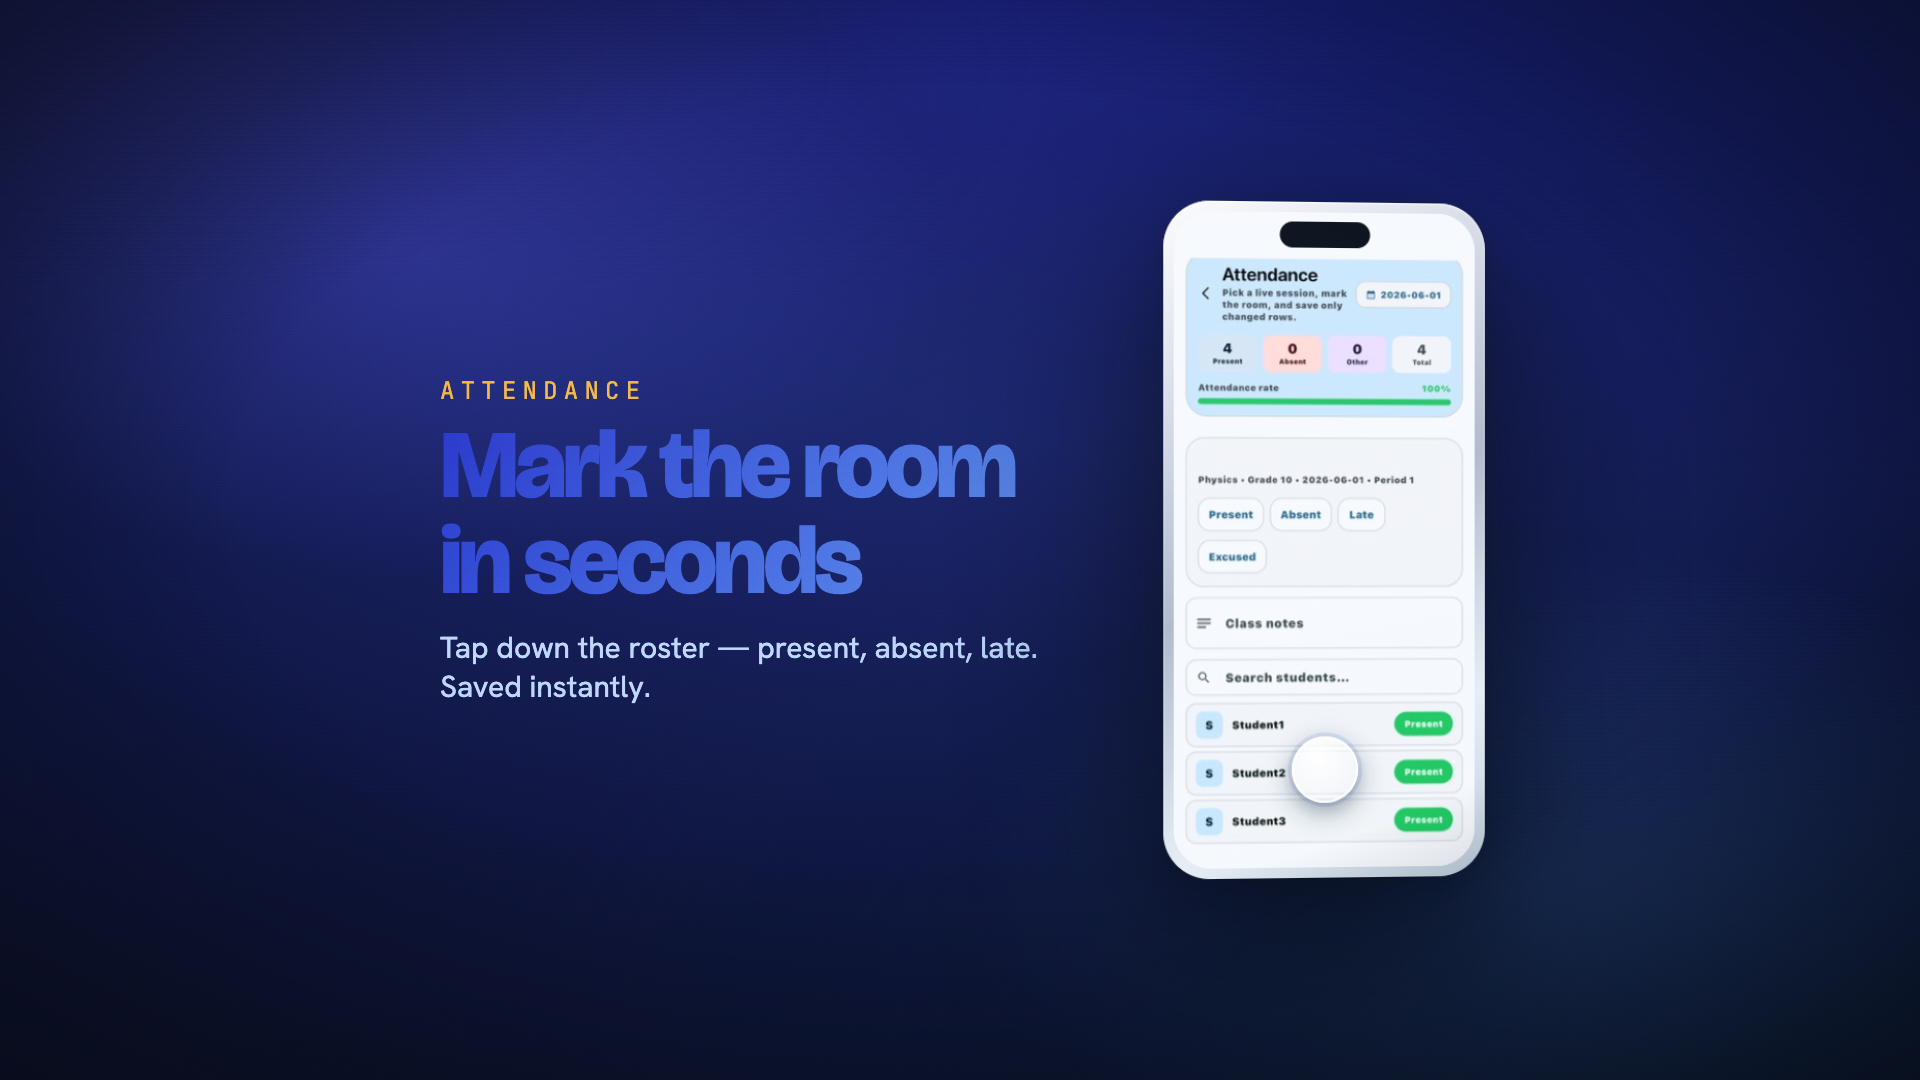
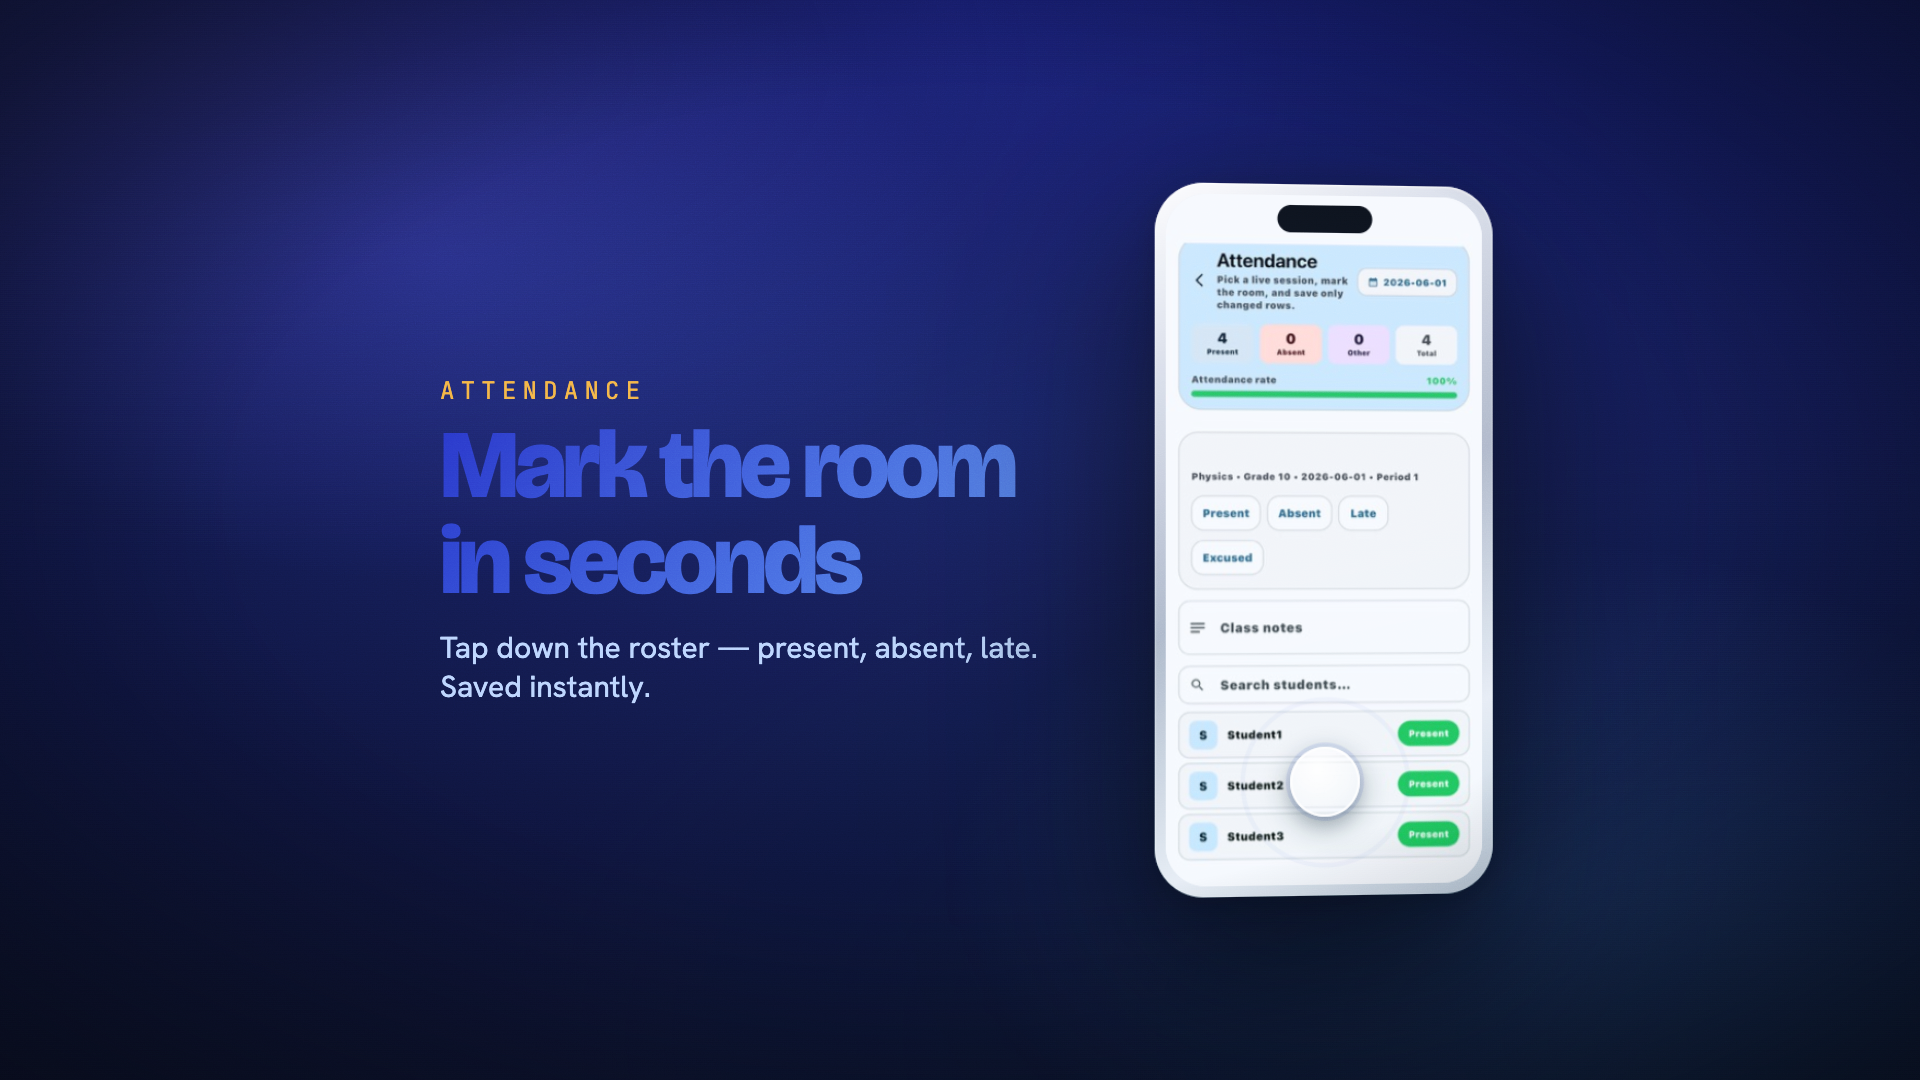
feat: faster/intenser demo cut + 3D scroll showcase
Video: trailer pacing tightened ~71s -> 41s (shorter scenes, 11f cuts), stronger
3D camera (bigger push/whip), punchier flares + tap kick, finger/crossfade sped
up, music up to 0.78. Dropped the '5 languages' montage beat. Web ~9.9MB H.264+AAC.

Website: sticky showcase phone now tilts in 3D with scroll and FLIPS to swap
screens (was a static crossfade); scroll reveals rise in 3D (perspective +
rotateX), reduced-motion safe.

Changed region(s): [[0.5938, 0.1528, 0.7812, 0.8556]]

diff --git a/marketing/public/styles.css b/marketing/public/styles.css
@@ -240,16 +240,16 @@ img { display: block; max-width: 100%; }
 .footer-copy { width: 100%; color: var(--muted); font-size: 13px; padding-top: 14px; border-top: 1px solid var(--border); }
 
 /* ── Reveal ── */
-.reveal { opacity: 0; transform: translateY(30px) scale(.985); transition: opacity .7s cubic-bezier(.2,.7,.2,1), transform .7s cubic-bezier(.2,.7,.2,1); }
-.reveal.in { opacity: 1; transform: none; }
+.reveal { opacity: 0; transform: perspective(1100px) translateY(38px) translateZ(-60px) rotateX(9deg) scale(.985); transition: opacity .7s cubic-bezier(.2,.7,.2,1), transform .8s cubic-bezier(.2,.8,.2,1); }
+.reveal.in { opacity: 1; transform: perspective(1100px) translateY(0) translateZ(0) rotateX(0) scale(1); }
 .feature-card.reveal:nth-child(2) { transition-delay: .07s; }
 .feature-card.reveal:nth-child(3) { transition-delay: .14s; }
 .feature-card.reveal:nth-child(5) { transition-delay: .07s; }
 .feature-card.reveal:nth-child(6) { transition-delay: .14s; }
 
 /* Staggered groups — children cascade in using a per-child --i index (set in app.js). */
-.reveal-stagger > * { opacity: 0; transform: translateY(22px); transition: opacity .7s cubic-bezier(.2,.7,.2,1), transform .7s cubic-bezier(.2,.7,.2,1); }
-.reveal-stagger.in > * { opacity: 1; transform: none; transition-delay: calc(var(--i, 0) * .08s); }
+.reveal-stagger > * { opacity: 0; transform: perspective(1000px) translateY(26px) translateZ(-40px) rotateX(8deg); transition: opacity .7s cubic-bezier(.2,.7,.2,1), transform .75s cubic-bezier(.2,.8,.2,1); }
+.reveal-stagger.in > * { opacity: 1; transform: perspective(1000px) translateY(0) translateZ(0) rotateX(0); transition-delay: calc(var(--i, 0) * .08s); }
 
 /* Smooth anchored jumps that clear the sticky nav. */
 section[id] { scroll-margin-top: 88px; }
@@ -287,12 +287,14 @@ section[id] { scroll-margin-top: 88px; }
 
 /* ── Sticky morphing showcase ── */
 .showcase-inner { max-width: var(--maxw); margin: 0 auto; display: grid; grid-template-columns: 0.9fr 1.1fr; gap: 40px; align-items: start; }
-.showcase-sticky { position: sticky; top: 14vh; display: flex; justify-content: center; }
+.showcase-sticky { position: sticky; top: 14vh; display: flex; justify-content: center; perspective: 1500px; }
 /* aspect-ratio tuned so the INNER screen window (after the 11px bezel) matches
    the 1206×2622 screenshots exactly — so `cover` fills edge-to-edge with no crop. */
-.phone-showcase { width: 320px; aspect-ratio: 320 / 670; box-shadow: var(--shadow), var(--shadow-glow); }
-.showcase-screens { position: relative; width: 100%; height: 100%; border-radius: 32px; overflow: hidden; isolation: isolate; background: #f3f5fa; }
-.showcase-shot { position: absolute; inset: 0; width: 100%; height: 100%; object-fit: cover; object-position: top center; opacity: 0; transform: scale(1.025); transition: opacity .7s cubic-bezier(.4,0,.2,1), transform 1.1s cubic-bezier(.22,1,.36,1); will-change: opacity, transform; z-index: 1; backface-visibility: hidden; }
+.phone-showcase { width: 320px; aspect-ratio: 320 / 670; box-shadow: var(--shadow), var(--shadow-glow); transform-style: preserve-3d; transition: transform .12s ease-out; will-change: transform; }
+/* The screen stack flips on its Y axis when the active screen changes. */
+.showcase-screens { position: relative; width: 100%; height: 100%; border-radius: 32px; overflow: hidden; isolation: isolate; background: #f3f5fa; transform-style: preserve-3d; transition: transform .28s cubic-bezier(.5,0,.5,1); }
+.showcase-screens.flipping { transform: rotateY(90deg); }
+.showcase-shot { position: absolute; inset: 0; width: 100%; height: 100%; object-fit: cover; object-position: top center; opacity: 0; transform: scale(1.03); transition: opacity .18s ease, transform .5s cubic-bezier(.22,1,.36,1); will-change: opacity, transform; z-index: 1; backface-visibility: hidden; }
 /* active shot sits on top and is fully opaque — the incoming shot covers the
    outgoing one as it fades in (no muddy mid-crossfade dip to the bg). */
 .showcase-shot.is-active { opacity: 1; transform: scale(1); z-index: 2; }

diff --git a/marketing/public/app.js b/marketing/public/app.js
@@ -61,10 +61,24 @@ document.querySelectorAll('.ph[data-shot]').forEach((el) => {
 // ── Sticky showcase: crossfade the phone's screenshot as steps scroll in ──
 const shots = Array.from(document.querySelectorAll('.showcase-shot'));
 const steps = Array.from(document.querySelectorAll('.showcase-step'));
+const screensEl = document.querySelector('.showcase-screens');
+const rmShowcase = window.matchMedia('(prefers-reduced-motion: reduce)').matches;
 if (shots.length && steps.length) {
-  function setStep(n) {
-    shots.forEach((s) => s.classList.toggle('is-active', s.dataset.step === String(n)));
-    steps.forEach((s) => s.classList.toggle('is-active', s.dataset.step === String(n)));
+  let currentStep = '0';
+  const swapShots = (n) => shots.forEach((s) => s.classList.toggle('is-active', s.dataset.step === n));
+  function setStep(nRaw) {
+    const n = String(nRaw);
+    if (n === currentStep) return;
+    currentStep = n;
+    // Text panel updates immediately…
+    steps.forEach((s) => s.classList.toggle('is-active', s.dataset.step === n));
+    // …the phone does a quick 3D flip and swaps the screen at the edge.
+    if (screensEl && !rmShowcase) {
+      screensEl.classList.add('flipping');
+      setTimeout(() => { swapShots(n); screensEl.classList.remove('flipping'); }, 220);
+    } else {
+      swapShots(n);
+    }
   }
   const stepIO = new IntersectionObserver(
     (entries) => {
@@ -88,6 +102,7 @@ const progress = document.getElementById('scrollProgress');
 const nav = document.getElementById('nav');
 const heroPhone = document.querySelector('.phone-hero');
 const heroGlow = document.querySelector('.hero-glow');
+const showcasePhone = document.querySelector('.phone-showcase');
 const reduceMotion = window.matchMedia('(prefers-reduced-motion: reduce)').matches;
 // Generic parallax layers (section background glows). Each drifts relative to
 // its own distance from the viewport centre, so the effect runs the whole page.
@@ -106,6 +121,13 @@ function onScroll() {
     if (!reduceMotion) {
       if (heroPhone) heroPhone.style.transform = `translateY(${y * -0.08}px) rotate(-3deg)`;
       if (heroGlow) heroGlow.style.transform = `translateY(${y * 0.12}px)`;
+      // Sticky showcase phone: tilt in 3D + float as it travels the viewport.
+      if (showcasePhone) {
+        const pr = showcasePhone.getBoundingClientRect();
+        const off = (pr.top + pr.height / 2 - vh / 2) / vh; // ~ -0.5..0.5
+        showcasePhone.style.transform =
+          `rotateY(${(-off * 16).toFixed(2)}deg) rotateX(${(off * 9).toFixed(2)}deg) translateY(${(off * -14).toFixed(1)}px)`;
+      }
       for (const el of parallaxEls) {
         const r = el.getBoundingClientRect();
         const offset = (r.top + r.height / 2) - vh / 2;

diff --git a/marketing/video/src/scenes/Interaction.tsx b/marketing/video/src/scenes/Interaction.tsx
@@ -56,32 +56,38 @@ export const Interaction: React.FC<InteractionProps> = ({
   const tapX = screenWidth * tapXFrac;
   const tapY = screenH * tapYFrac;
 
-  const afterOpacity = interpolate(frame, [tapFrame, tapFrame + 12], [0, 1], {
+  // Snappy crossfade on tap.
+  const afterOpacity = interpolate(frame, [tapFrame, tapFrame + 7], [0, 1], {
     extrapolateLeft: "clamp",
     extrapolateRight: "clamp",
   });
-  // Pan the after-screen open a touch once it has settled (reveals long content).
+  // Quick reveal pan once the after-screen lands.
   const settleScroll = interpolate(
     frame,
-    [tapFrame + 18, durationInFrames - 6],
+    [tapFrame + 10, durationInFrames - 4],
     [0, afterScroll],
     { extrapolateLeft: "clamp", extrapolateRight: "clamp" },
   );
+  // Impact: phone kicks on tap.
+  const kick =
+    frame > tapFrame && frame < tapFrame + 12
+      ? Math.sin((frame - tapFrame) * 1.7) * interpolate(frame, [tapFrame, tapFrame + 12], [7, 0])
+      : 0;
 
   const phone = (
-    <CameraRig push={[1.0, 1.07]} tilt={side === "right" ? 4 : -4} whip={1} durationInFrames={durationInFrames}>
-      <div style={{ position: "relative", filter: "drop-shadow(0 50px 100px rgba(0,0,0,0.55))" }}>
+    <CameraRig push={[1.02, 1.14]} tilt={side === "right" ? 5 : -5} whip={1.4} durationInFrames={durationInFrames}>
+      <div style={{ position: "relative", transform: `translateX(${kick}px)`, filter: "drop-shadow(0 50px 100px rgba(0,0,0,0.55))" }}>
         <PhoneLight screenWidth={screenWidth}>
           <Shot src={beforeSrc} />
           <AbsoluteFill style={{ opacity: afterOpacity }}>
             <Shot src={afterSrc} scroll={settleScroll} />
           </AbsoluteFill>
           <Finger
-            fromX={tapX + 70}
-            fromY={tapY + 130}
+            fromX={tapX + 56}
+            fromY={tapY + 100}
             toX={tapX}
             toY={tapY}
-            start={tapFrame - 46}
+            start={tapFrame - 26}
             tapAt={tapFrame}
           />
         </PhoneLight>

diff --git a/marketing/video/src/Video.tsx b/marketing/video/src/Video.tsx
@@ -58,7 +58,7 @@ export const ClassMateDemo: React.FC = () => {
             side="right"
             tapXFrac={0.5}
             tapYFrac={0.85}
-            tapFrame={95}
+            tapFrame={60}
             tint={COLORS.indigoSoft}
             leakHue={COLORS.gold}
             variant="indigo"
@@ -77,7 +77,7 @@ export const ClassMateDemo: React.FC = () => {
             side="left"
             tapXFrac={0.9}
             tapYFrac={0.57}
-            tapFrame={95}
+            tapFrame={62}
             afterScroll={-90}
             tint={COLORS.sky}
             leakHue={COLORS.emerald}
@@ -97,7 +97,7 @@ export const ClassMateDemo: React.FC = () => {
             side="right"
             tapXFrac={0.36}
             tapYFrac={0.2}
-            tapFrame={90}
+            tapFrame={58}
             tint={COLORS.emerald}
             leakHue={COLORS.gold}
             variant="indigo"
@@ -116,7 +116,7 @@ export const ClassMateDemo: React.FC = () => {
             side="left"
             tapXFrac={0.5}
             tapYFrac={0.8}
-            tapFrame={110}
+            tapFrame={68}
             tint={COLORS.gold}
             leakHue={COLORS.emerald}
             variant="warm"
@@ -149,8 +149,8 @@ export const ClassMateDemo: React.FC = () => {
           volume={(f) =>
             interpolate(
               f,
-              [0, 24, TOTAL_FRAMES - 45, TOTAL_FRAMES - 1],
-              [0, 0.5, 0.5, 0],
+              [0, 14, TOTAL_FRAMES - 30, TOTAL_FRAMES - 1],
+              [0, 0.78, 0.78, 0],
               { extrapolateLeft: "clamp", extrapolateRight: "clamp" },
             )
           }

diff --git a/marketing/video/src/scenes/ColdOpen.tsx b/marketing/video/src/scenes/ColdOpen.tsx
@@ -24,15 +24,15 @@ export const ColdOpen: React.FC = () => {
   const scale = interpolate(frame, [0, durationInFrames], [1.05, 1.14], {
     extrapolateRight: "clamp",
   });
-  const sweep = interpolate(frame, [10, 120], [-30, 130], {
+  const sweep = interpolate(frame, [4, 60], [-30, 130], {
     extrapolateLeft: "clamp",
     extrapolateRight: "clamp",
   });
 
   const desks = Array.from({ length: 18 });
 
-  const titleIn = spring({ frame: frame - 70, fps, config: { damping: 16 } });
-  const stampIn = spring({ frame: frame - 95, fps, config: { damping: 18 } });
+  const titleIn = spring({ frame: frame - 34, fps, config: { damping: 16 } });
+  const stampIn = spring({ frame: frame - 54, fps, config: { damping: 18 } });
 
   return (
     <AbsoluteFill style={{ background: "#05080f" }}>
@@ -73,7 +73,7 @@ export const ColdOpen: React.FC = () => {
             const col = i % 6;
             const lit = interpolate(
               frame,
-              [25 + col * 8, 45 + col * 8],
+              [8 + col * 4, 22 + col * 4],
               [0, 1],
               { extrapolateLeft: "clamp", extrapolateRight: "clamp" },
             );

diff --git a/marketing/video/src/components/CameraRig.tsx b/marketing/video/src/components/CameraRig.tsx
@@ -20,12 +20,12 @@ export const CameraRig: React.FC<{
   const { fps, durationInFrames: compDur } = useVideoConfig();
   const dur = durationInFrames ?? compDur;
 
-  const enter = spring({ frame, fps, config: { damping: 16, mass: 0.9 } });
+  const enter = spring({ frame, fps, config: { damping: 13, mass: 0.8, stiffness: 130 } });
   const scale = interpolate(frame, [0, dur], push, { extrapolateRight: "clamp" }) *
-    interpolate(enter, [0, 1], [0.94, 1]);
-  const yaw = Math.sin(frame / 70) * tilt + interpolate(enter, [0, 1], [whip * 14, 0]);
-  const pitch = Math.cos(frame / 90) * (tilt * 0.5);
-  const blur = interpolate(enter, [0, 1], [whip * 6, 0]);
+    interpolate(enter, [0, 1], [0.9, 1]);
+  const yaw = Math.sin(frame / 45) * tilt + interpolate(enter, [0, 1], [whip * 20, 0]);
+  const pitch = Math.cos(frame / 60) * (tilt * 0.55);
+  const blur = interpolate(enter, [0, 1], [whip * 9, 0]);
 
   return (
     <div style={{ perspective: 1600, transformStyle: "preserve-3d" }}>

diff --git a/marketing/video/src/theme.ts b/marketing/video/src/theme.ts
@@ -82,21 +82,21 @@ export const SCREENS = {
  * scenes overlap by TRANSITION frames inside the TransitionSeries, so the
  * composition's true length is sum(scenes) - (n-1) * TRANSITION.
  */
-export const TRANSITION = 18;
+export const TRANSITION = 11;
 
 export const SCENES = {
-  coldOpen: 200,
-  title: 160,
-  attendance: 260,
-  nova: 280,
-  classroom: 240,
-  practice: 270,
-  gradesInsights: 260,
-  montage: 360,
-  cta: 250,
+  coldOpen: 100,
+  title: 80,
+  attendance: 150,
+  nova: 165,
+  classroom: 150,
+  practice: 170,
+  gradesInsights: 150,
+  montage: 200,
+  cta: 150,
 } as const;
 
 const sceneList = Object.values(SCENES);
 export const TOTAL_FRAMES =
   sceneList.reduce((a, b) => a + b, 0) - (sceneList.length - 1) * TRANSITION;
-// 2280 - 8*18 = 2136 frames = 71.2s @ 30fps
+// 1315 - 8*11 = 1227 frames = 40.9s @ 30fps

diff --git a/marketing/video/src/scenes/Montage.tsx b/marketing/video/src/scenes/Montage.tsx
@@ -13,7 +13,7 @@ import { SceneBG } from "../components/SceneBG";
 import { LightLeak } from "../components/LightLeak";
 import { COLORS, FONTS, SCREENS, SHOT } from "../theme";
 
-const CUT = 95;
+const CUT = 66;
 
 const Cut: React.FC<{
   kicker: string;
@@ -89,9 +89,6 @@ export const Montage: React.FC = () => {
       </Sequence>
       <Sequence from={CUT * 2} durationInFrames={CUT}>
         <Cut kicker="One app" title="Every role" src={SCREENS.menu} dir={1} tint={COLORS.emerald} variant="warm" />
-      </Sequence>
-      <Sequence from={CUT * 3} durationInFrames={CUT}>
-        <Cut kicker="Built for school" title="5 languages · every device" dir={-1} tint={COLORS.gold} variant="indigo" />
       </Sequence>
     </AbsoluteFill>
   );

diff --git a/marketing/video/src/components/Flare.tsx b/marketing/video/src/components/Flare.tsx
@@ -12,7 +12,7 @@ export const Flare: React.FC<{
   y?: number; // 0..100 vh
   hue?: string;
   life?: number;
-}> = ({ at, x = 50, y = 50, hue = COLORS.gold, life = 26 }) => {
+}> = ({ at, x = 50, y = 50, hue = COLORS.gold, life = 20 }) => {
   const frame = useCurrentFrame();
   const t = interpolate(frame, [at, at + life], [0, 1], {
     extrapolateLeft: "clamp",
@@ -20,7 +20,7 @@ export const Flare: React.FC<{
   });
   if (frame < at - 1 || t >= 1) return null;
   const intensity = Math.sin(t * Math.PI);
-  const width = interpolate(t, [0, 1], [30, 120]);
+  const width = interpolate(t, [0, 1], [40, 150]);
 
   return (
     <AbsoluteFill style={{ pointerEvents: "none", mixBlendMode: "screen", opacity: intensity }}>
